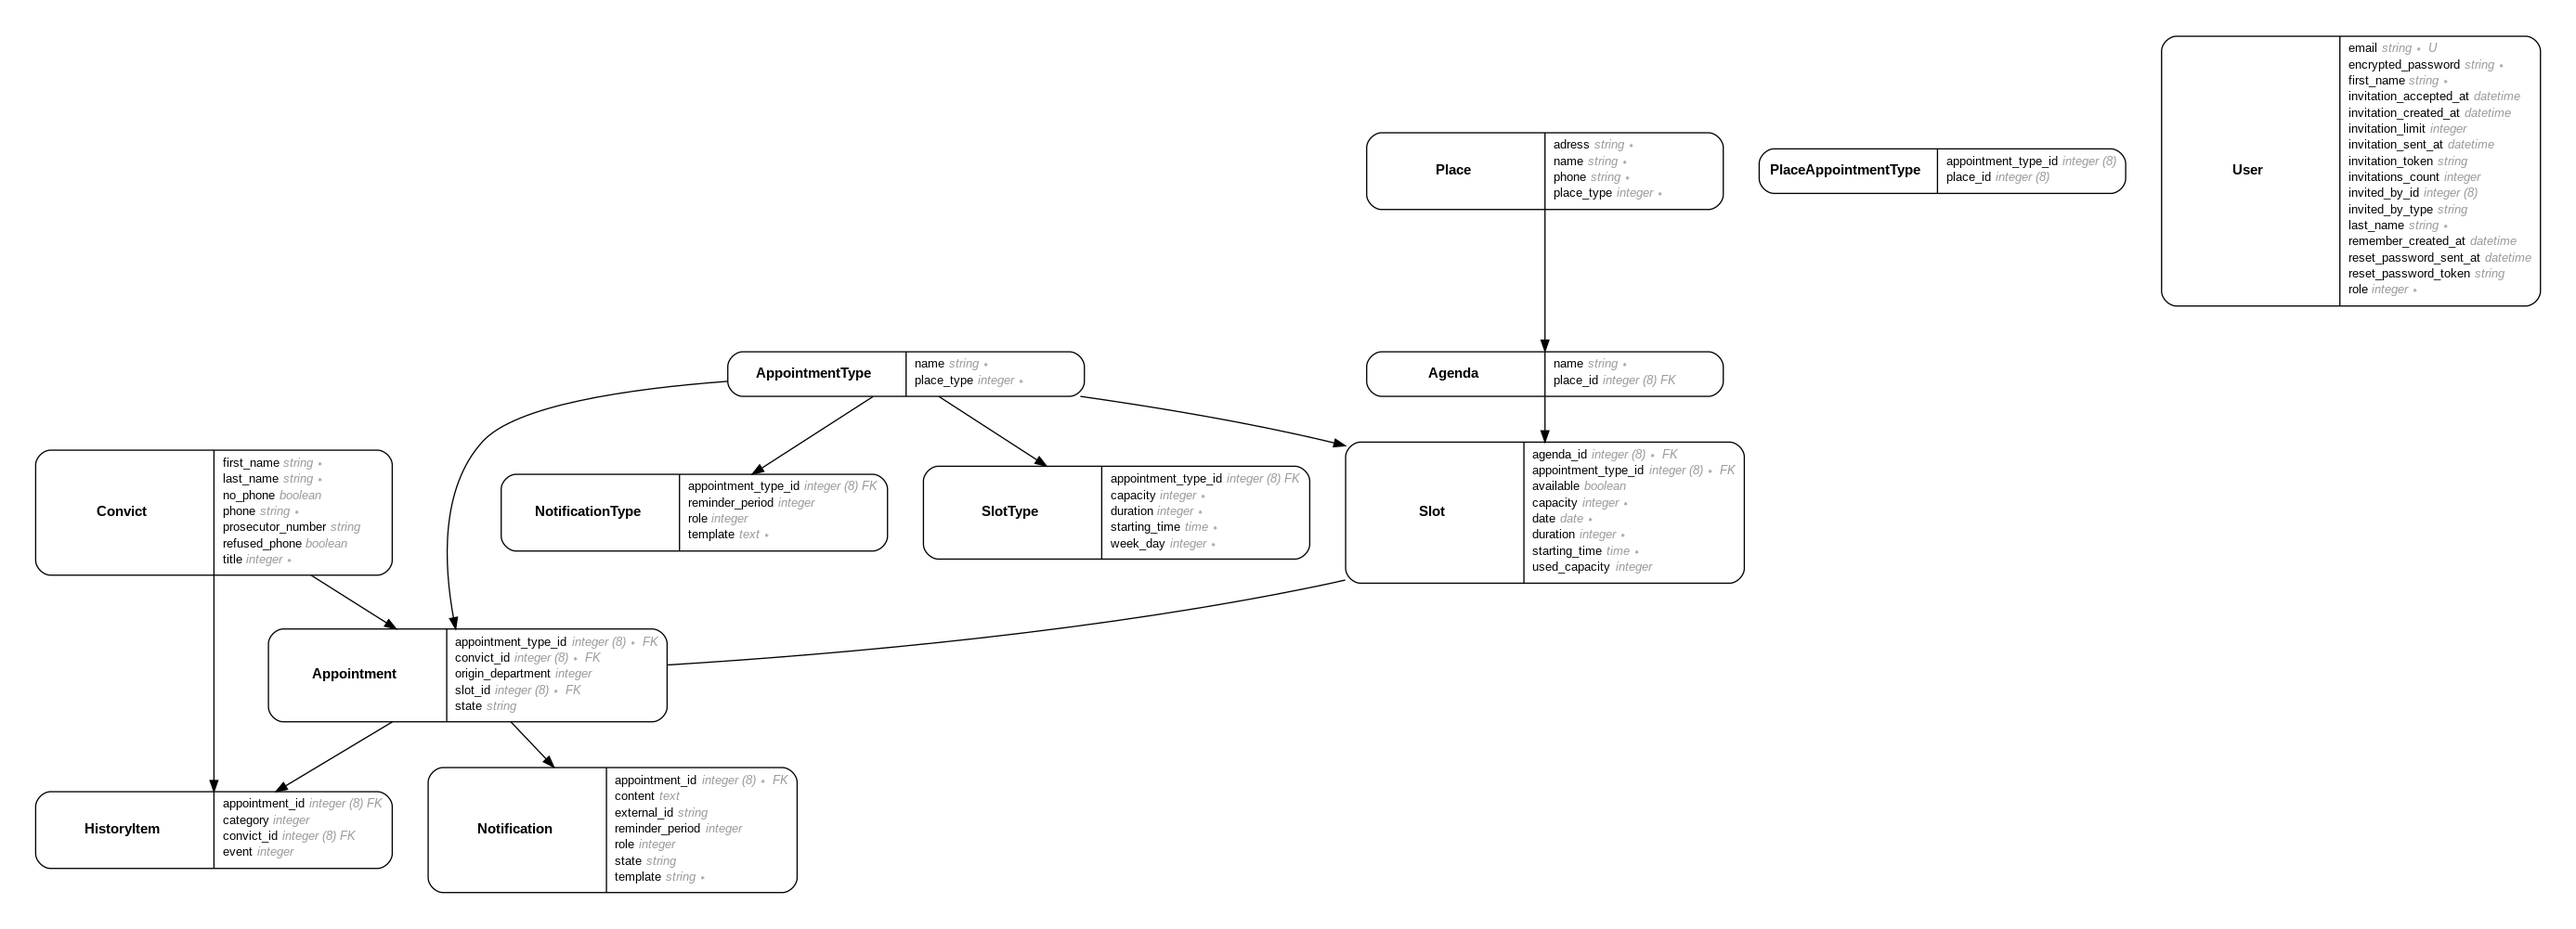
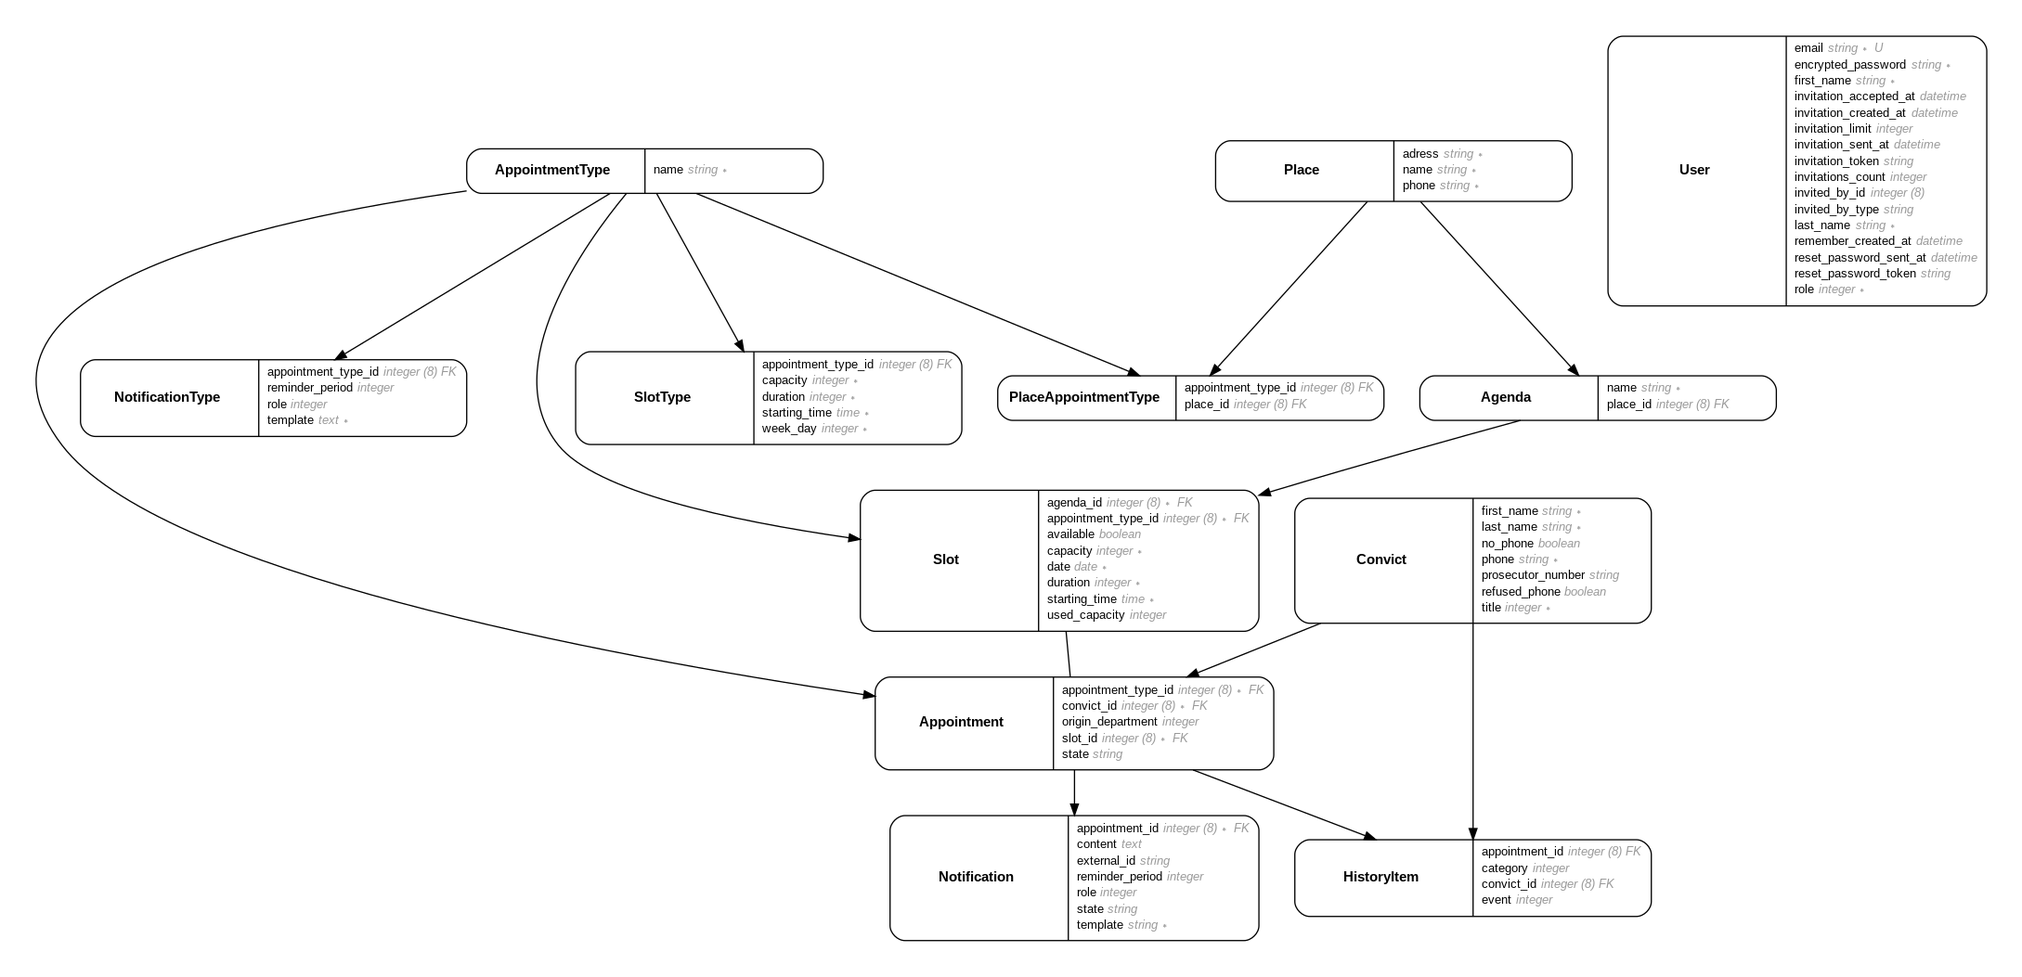
remove place_type workflow and data

diff --git a/app/assets/stylesheets/places.scss b/app/assets/stylesheets/places.scss
@@ -108,6 +108,14 @@
   align-self: flex-end;
 }
 
+.new-place-appointment-types-wrapper {
+  display: flex;
+  flex-direction: column;
+  width: 50%;
+  align-self: center;
+  margin-bottom: 30px;
+}
+
 .edit-place-appointment-types-container {
   @include box;
   padding-left: 50px;

diff --git a/db/seeds.rb b/db/seeds.rb
@@ -1,9 +1,10 @@
 User.create!(email: 'admin@example.com', password: 'password', password_confirmation: 'password', role: :admin, first_name: 'Kevin', last_name: 'Mc Alistair')
 
-place = Place.create!(name: "Tribunal d'Ancenis", adress: "133 Av. Robert Schuman, 44150 Ancenis", place_type: :sap, phone: '0606060606')
+place = Place.create!(name: "Tribunal d'Ancenis", adress: "133 Av. Robert Schuman, 44150 Ancenis", phone: '0606060606')
 agenda = Agenda.create!(place: place, name: "Agenda tribunal Ancenis")
 
-appointment_type = AppointmentType.create!(name: 'RDV de test SAP', place_type: :sap)
+appointment_type = AppointmentType.create!(name: 'RDV de test SAP')
+PlaceAppointmentType.create!(place: place, appointment_type: appointment_type)
 
 NotificationType.create!(appointment_type: appointment_type, role: :summon, template: "Vous êtes convoqué, merci de venir.")
 NotificationType.create!(appointment_type: appointment_type, role: :reminder, template: "RAPPEL Vous êtes convoqué, vraiment il faut venir.", reminder_period: :two_days)

diff --git a/db/schema.rb b/db/schema.rb
@@ -10,7 +10,7 @@
 #
 # It's strongly recommended that you check this file into your version control system.
 
-ActiveRecord::Schema.define(version: 2021_09_17_081930) do
+ActiveRecord::Schema.define(version: 2021_09_20_134212) do
 
   # These are extensions that must be enabled in order to support this database
   enable_extension "plpgsql"
@@ -27,7 +27,6 @@ ActiveRecord::Schema.define(version: 2021_09_17_081930) do
     t.string "name"
     t.datetime "created_at", precision: 6, null: false
     t.datetime "updated_at", precision: 6, null: false
-    t.integer "place_type", default: 0
   end
 
   create_table "appointments", force: :cascade do |t|
@@ -104,7 +103,6 @@ ActiveRecord::Schema.define(version: 2021_09_17_081930) do
     t.string "phone"
     t.datetime "created_at", precision: 6, null: false
     t.datetime "updated_at", precision: 6, null: false
-    t.integer "place_type", default: 0
   end
 
   create_table "slot_types", force: :cascade do |t|

diff --git a/spec/features/bex_spec.rb b/spec/features/bex_spec.rb
@@ -18,7 +18,7 @@ RSpec.feature 'Bex', type: :feature do
                                   prosecutor_number: '205206')
 
       apt_type = create(:appointment_type, name: 'RDV BEX SAP')
-      place = create(:place, place_type: 'sap', name: 'Tribunal de Nanterre')
+      place = create(:place, name: 'Tribunal de Nanterre')
 
       agenda1 = create(:agenda, place: place, name: 'Cabinet 1')
       agenda2 = create(:agenda, place: place, name: 'Cabinet 2')
@@ -70,7 +70,7 @@ RSpec.feature 'Bex', type: :feature do
                                   prosecutor_number: '205201')
 
       apt_type = create(:appointment_type, name: 'RDV BEX SPIP')
-      place = create(:place, place_type: 'sap', name: 'SPIP 91')
+      place = create(:place, name: 'SPIP 91')
 
       agenda = create(:agenda, place: place, name: 'Agenda SPIP 91')
 

diff --git a/spec/services/slot_factory_spec.rb b/spec/services/slot_factory_spec.rb
@@ -5,6 +5,8 @@ RSpec.describe SlotFactory do
   # tuesday 13, wednesday 14, thursday 15 august (14 is holiday)
   let(:appointment_type) { create :appointment_type }
   let(:place) { create :place }
+  let(:place_appointment_type) { create :place_appointment_type, place: place, appointment_type: appointment_type }
+
   let(:agenda) { create :agenda, place: place }
   let(:tuesday_slot) do
     create :slot_type, appointment_type: appointment_type, week_day: 'tuesday',
@@ -22,6 +24,7 @@ RSpec.describe SlotFactory do
   before do
     allow(Time).to receive(:now).and_return frozen_time
     appointment_type
+    place_appointment_type
     agenda
     tuesday_slot
     wednesday_slot

diff --git a/app/services/slot_factory.rb b/app/services/slot_factory.rb
@@ -10,7 +10,7 @@ module SlotFactory
     private
 
     def create_slot_for_all_places(appointment_type)
-      concerned_places(appointment_type.place_type).each do |place|
+      concerned_places(appointment_type).each do |place|
         create_slots_on_all_agendas(appointment_type, place)
       end
     end
@@ -52,8 +52,9 @@ module SlotFactory
                    starting_time: slot_type.starting_time
     end
 
-    def concerned_places(place_type)
-      Place.all.where place_type: place_type
+    def concerned_places(appointment_type)
+      Place.joins(:appointment_types)
+           .where(appointment_types: appointment_type)
     end
 
     def open_dates_on(weekday)

diff --git a/spec/models/place_spec.rb b/spec/models/place_spec.rb
@@ -4,13 +4,11 @@ require 'models/shared_normalized_phone'
 RSpec.describe Place, type: :model do
   it { should validate_presence_of(:name) }
   it { should validate_presence_of(:adress) }
-  it { should validate_presence_of(:place_type) }
   it { should validate_presence_of(:phone) }
 
   it { should have_many(:agendas) }
   it { should have_many(:appointment_types).through(:place_appointment_types) }
 
-  it { should define_enum_for(:place_type).with_values(%i[spip sap]) }
   it_behaves_like 'normalized_phone'
 
   describe 'Validations' do

diff --git a/spec/models/appointment_type_spec.rb b/spec/models/appointment_type_spec.rb
@@ -2,12 +2,9 @@ require 'rails_helper'
 
 RSpec.describe AppointmentType, type: :model do
   it { should validate_presence_of(:name) }
-  it { should validate_presence_of(:place_type) }
 
   it { should have_many(:notification_types) }
   it { should have_many(:slot_types) }
 
   it { should have_many(:places).through(:place_appointment_types) }
-
-  it { should define_enum_for(:place_type).with_values(%i[spip sap]) }
 end

diff --git a/app/models/appointment_type.rb b/app/models/appointment_type.rb
@@ -10,9 +10,7 @@ class AppointmentType < ApplicationRecord
   accepts_nested_attributes_for :notification_types
   accepts_nested_attributes_for :slot_types, reject_if: :all_blank, allow_destroy: true
 
-  validates :name, :place_type, presence: true
-
-  enum place_type: %i[spip sap]
+  validates :name, presence: true
 
   def summon_notif
     notification_types.find_by(role: :summon)

diff --git a/app/controllers/places_controller.rb b/app/controllers/places_controller.rb
@@ -49,7 +49,7 @@ class PlacesController < ApplicationController
   private
 
   def place_params
-    params.require(:place).permit(:name, :adress, :phone, :place_type,
+    params.require(:place).permit(:name, :adress, :phone,
                                   agendas_attributes: [:id, :name, :_destroy],
                                   appointment_type_ids: [])
   end

diff --git a/app/controllers/appointment_types_controller.rb b/app/controllers/appointment_types_controller.rb
@@ -28,7 +28,7 @@ class AppointmentTypesController < ApplicationController
 
   def place_params
     params.require(:appointment_type).permit(
-      :name, :place_type,
+      :name,
       notification_types_attributes: [:id, :template, :reminder_period],
       slot_types_attributes: [:id, :week_day, :starting_time, :duration, :capacity, :_destroy]
     )

diff --git a/app/models/place.rb b/app/models/place.rb
@@ -2,9 +2,7 @@ class Place < ApplicationRecord
   include NormalizedPhone
   has_paper_trail
 
-  validates :name, :adress, :place_type, :phone, presence: true
-
-  enum place_type: %i[spip sap]
+  validates :name, :adress, :phone, presence: true
 
   has_many :agendas, dependent: :destroy
   has_many :place_appointment_types
